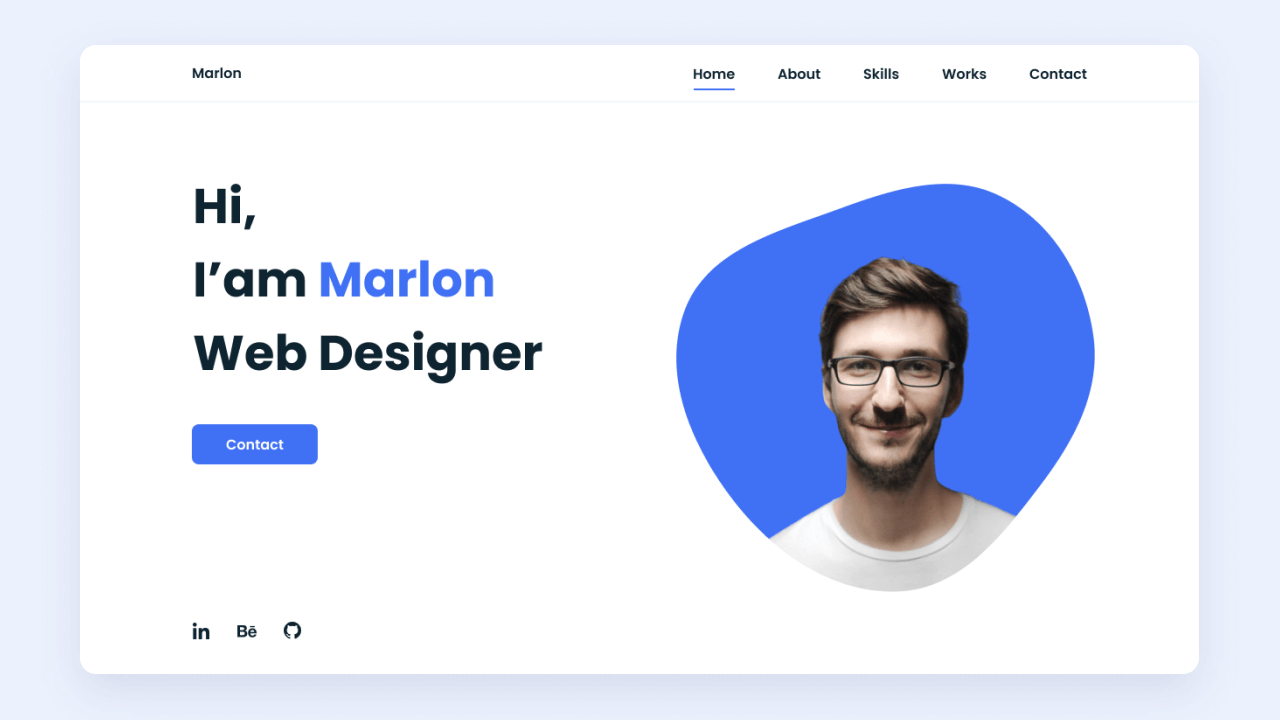
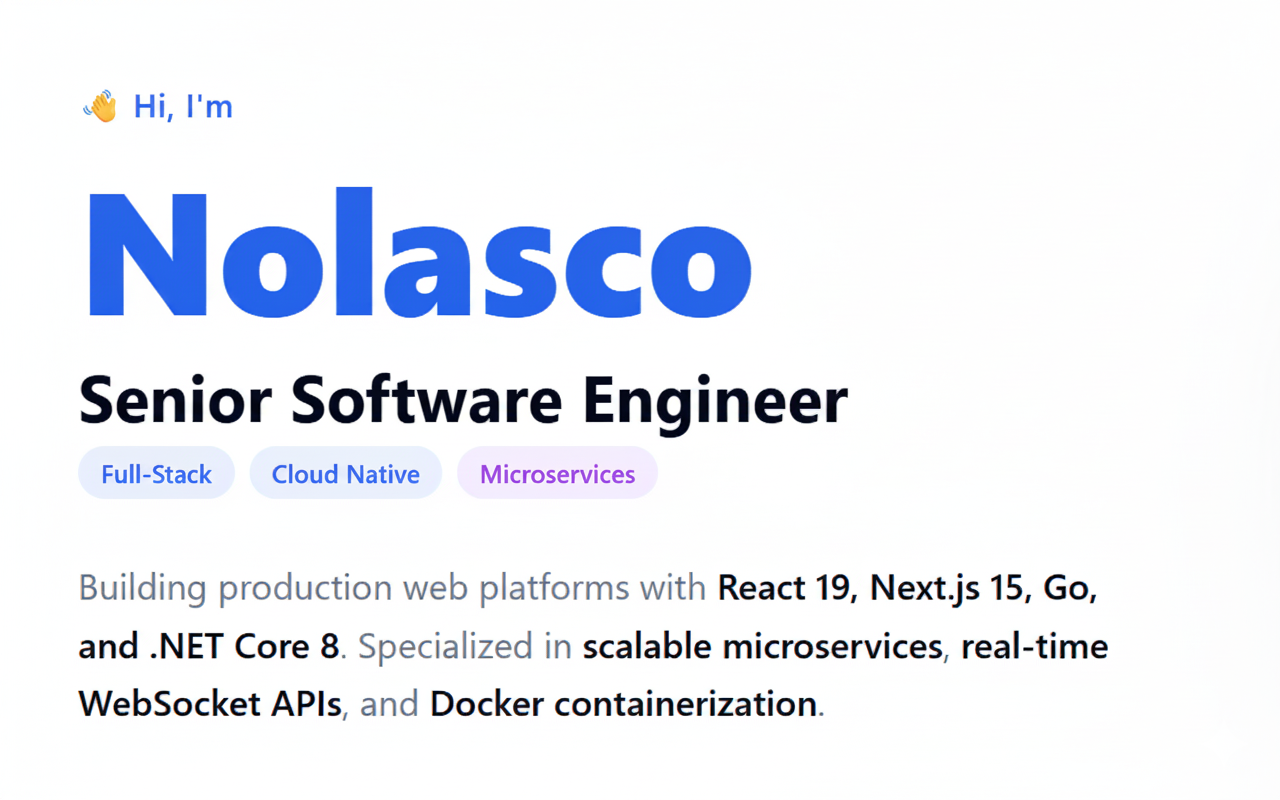
feat: Major portfolio enhancements and content updates
- Add Got5 project with live demo link (https://www.got5.org/)
- Update all projects to mark as private repositories with '🔒 Private Repository' badge
- Add TypeScript interface for better type safety in projects
- Update Technical Skills based on actual project tech stack:
  * Frontend: React 19, Next.js 15, TypeScript, Material UI v6, Redux Toolkit, Tailwind CSS
  * Backend: Go, .NET Core 8, PHP/Laravel, Node.js, RESTful APIs, WebSockets
  * Databases: PostgreSQL, MySQL, MinIO, Redis, Object Storage
  * DevOps: Docker, JWT Auth, OpenAPI/Swagger, Rate Limiting, CI/CD, Git
- Update About section with 6+ years experience and current technologies
- Update Hero section with React 19, Next.js 15, Go, .NET Core 8
- Update statistics: 6+ Years, 10+ Projects, 100% Committed
- Add comprehensive meta tags for LinkedIn/social media sharing:
  * Open Graph tags optimized for LinkedIn
  * Twitter Card tags
  * Updated all URLs to https://nolascode.net/
  * SEO keywords and author information
- Update preview.png with professional hero section screenshot
- Improve button styling with proper icon alignment across all buttons
- Fix Tailwind config ES6 import syntax
- Remove sensitive token from README.md
- Update footer from coffee emoji to code emoji (Made with ❤️ and 💻)

diff --git a/index.html b/index.html
@@ -4,8 +4,32 @@
     <meta charset="UTF-8" />
     <link rel="icon" type="image/svg+xml" href="/vite.svg" />
     <meta name="viewport" content="width=device-width, initial-scale=1.0" />
+    
+    <!-- Primary Meta Tags -->
     <title>Nolascode - Senior Software Engineer</title>
-    <meta name="description" content="Senior Software Engineer specializing in .NET Core, Go, React/Next.js, and scalable microservices architecture." />
+    <meta name="title" content="Nolascode - Senior Software Engineer" />
+    <meta name="description" content="Senior Software Engineer with 6+ years building production web platforms with React 19, Next.js 15, Go, and .NET Core 8. Specialized in scalable microservices, real-time WebSocket APIs, and Docker containerization." />
+    <meta name="author" content="Ramon Nolasco" />
+    <meta name="keywords" content="Software Engineer, Full Stack Developer, React, Next.js, Go, .NET Core, TypeScript, PostgreSQL, Docker, Microservices, Web Development" />
+    
+    <!-- Open Graph / Facebook / LinkedIn -->
+    <meta property="og:type" content="website" />
+    <meta property="og:url" content="https://nolascode.net/" />
+    <meta property="og:title" content="Nolascode - Senior Software Engineer" />
+    <meta property="og:description" content="Senior Software Engineer with 6+ years building production web platforms with React 19, Next.js 15, Go, and .NET Core 8. Specialized in scalable microservices and real-time APIs." />
+    <meta property="og:image" content="https://nolascode.net/preview.png" />
+    <meta property="og:image:width" content="1200" />
+    <meta property="og:image:height" content="630" />
+    
+    <!-- Twitter -->
+    <meta property="twitter:card" content="summary_large_image" />
+    <meta property="twitter:url" content="https://nolascode.net/" />
+    <meta property="twitter:title" content="Nolascode - Senior Software Engineer" />
+    <meta property="twitter:description" content="Senior Software Engineer with 6+ years building production web platforms with React 19, Next.js 15, Go, and .NET Core 8." />
+    <meta property="twitter:image" content="https://nolascode.net/preview.png" />
+    
+    <!-- Canonical URL -->
+    <link rel="canonical" href="https://nolascode.net/" />
   </head>
   <body>
     <div id="root"></div>